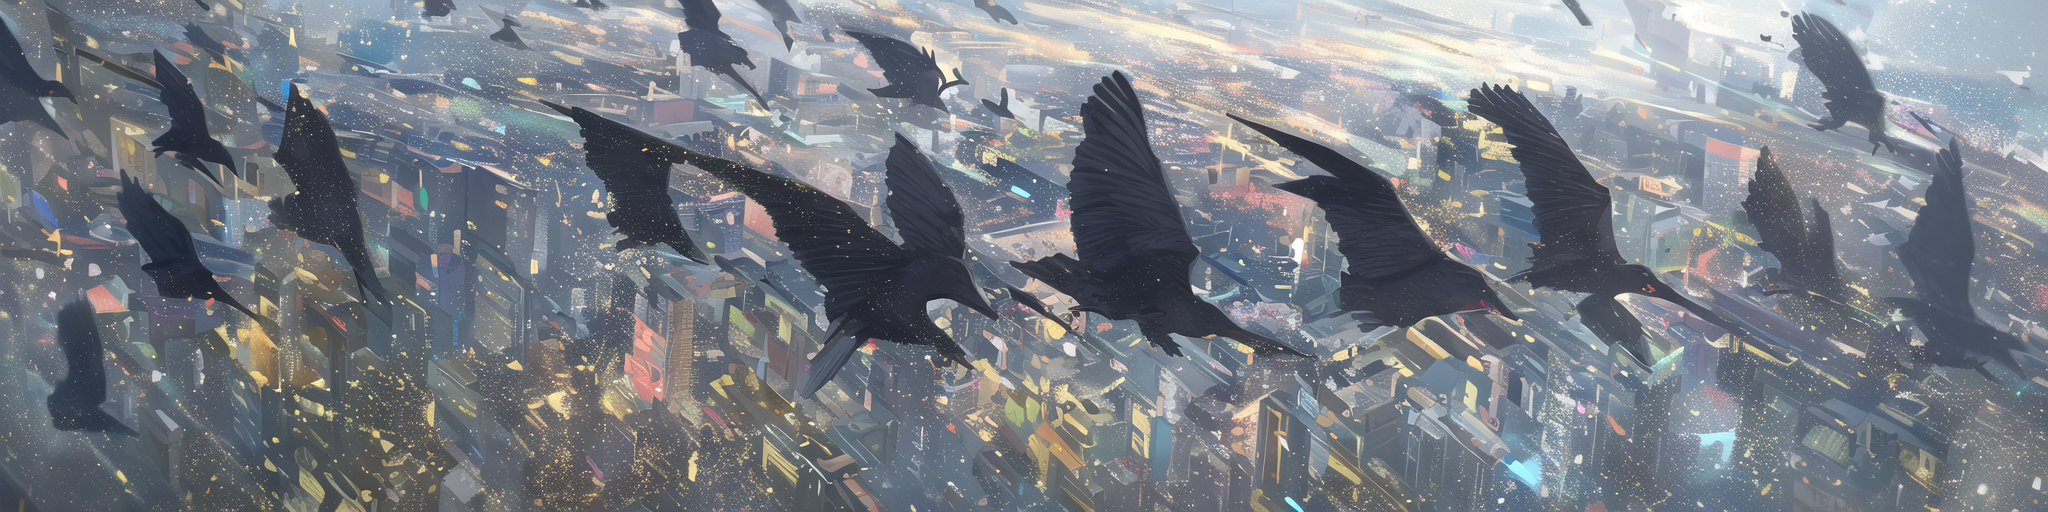
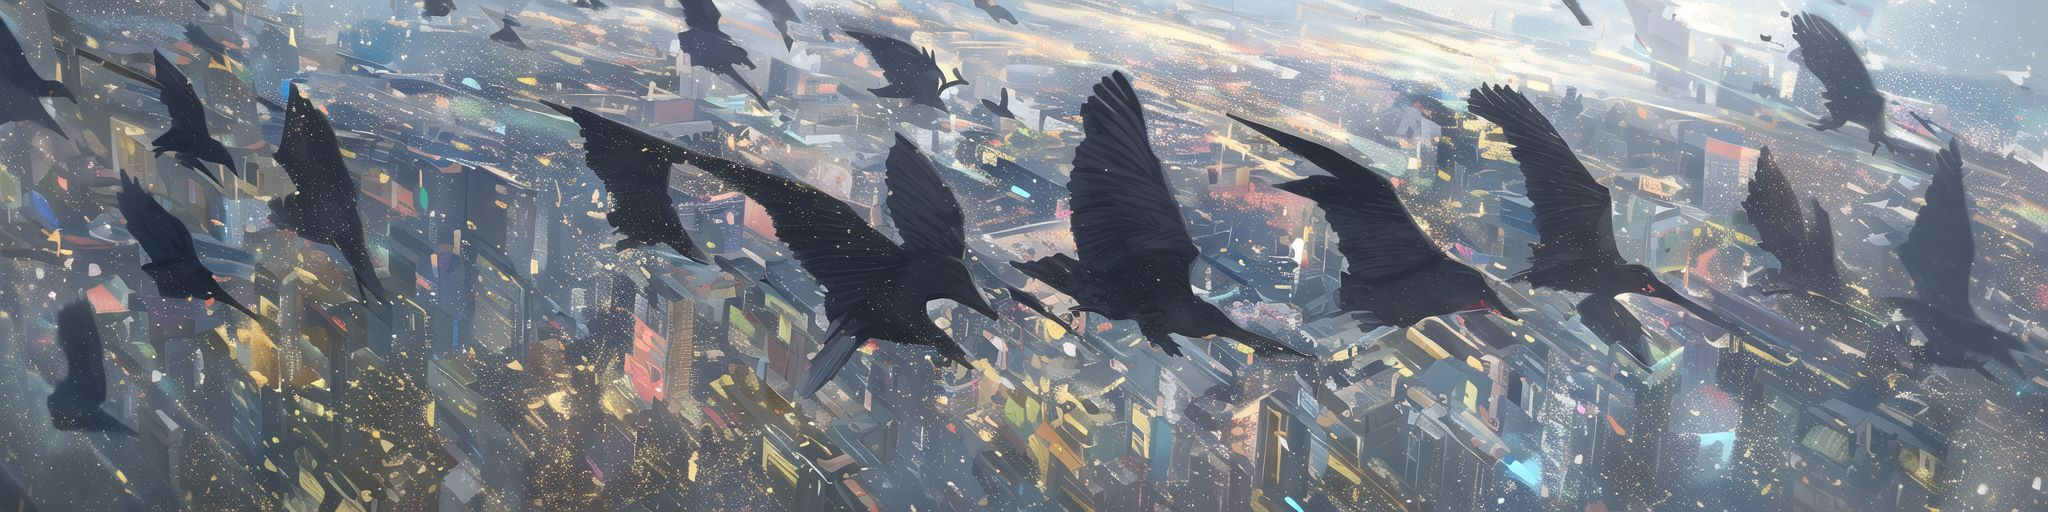
reduce size

diff --git a/frontend/src/pages/Chat.tsx b/frontend/src/pages/Chat.tsx
@@ -7,7 +7,7 @@ import { v4 as uuid } from 'uuid';
 import classnames from 'classnames';
 import { fetchEventSource } from '@microsoft/fetch-event-source';
 import { ConversationPair, getConversationPairs, Record } from '../utils/get-conversation-pairs';
-import logo from '../../../build/appicon.png';
+import logo from '../../../build/appicon.jpg';
 import MarkdownRender from '../components/MarkdownRender';
 import { ToolTipButton } from '../components/ToolTipButton';
 import { ArrowCircleUp28Regular, Delete28Regular, RecordStop28Regular } from '@fluentui/react-icons';
